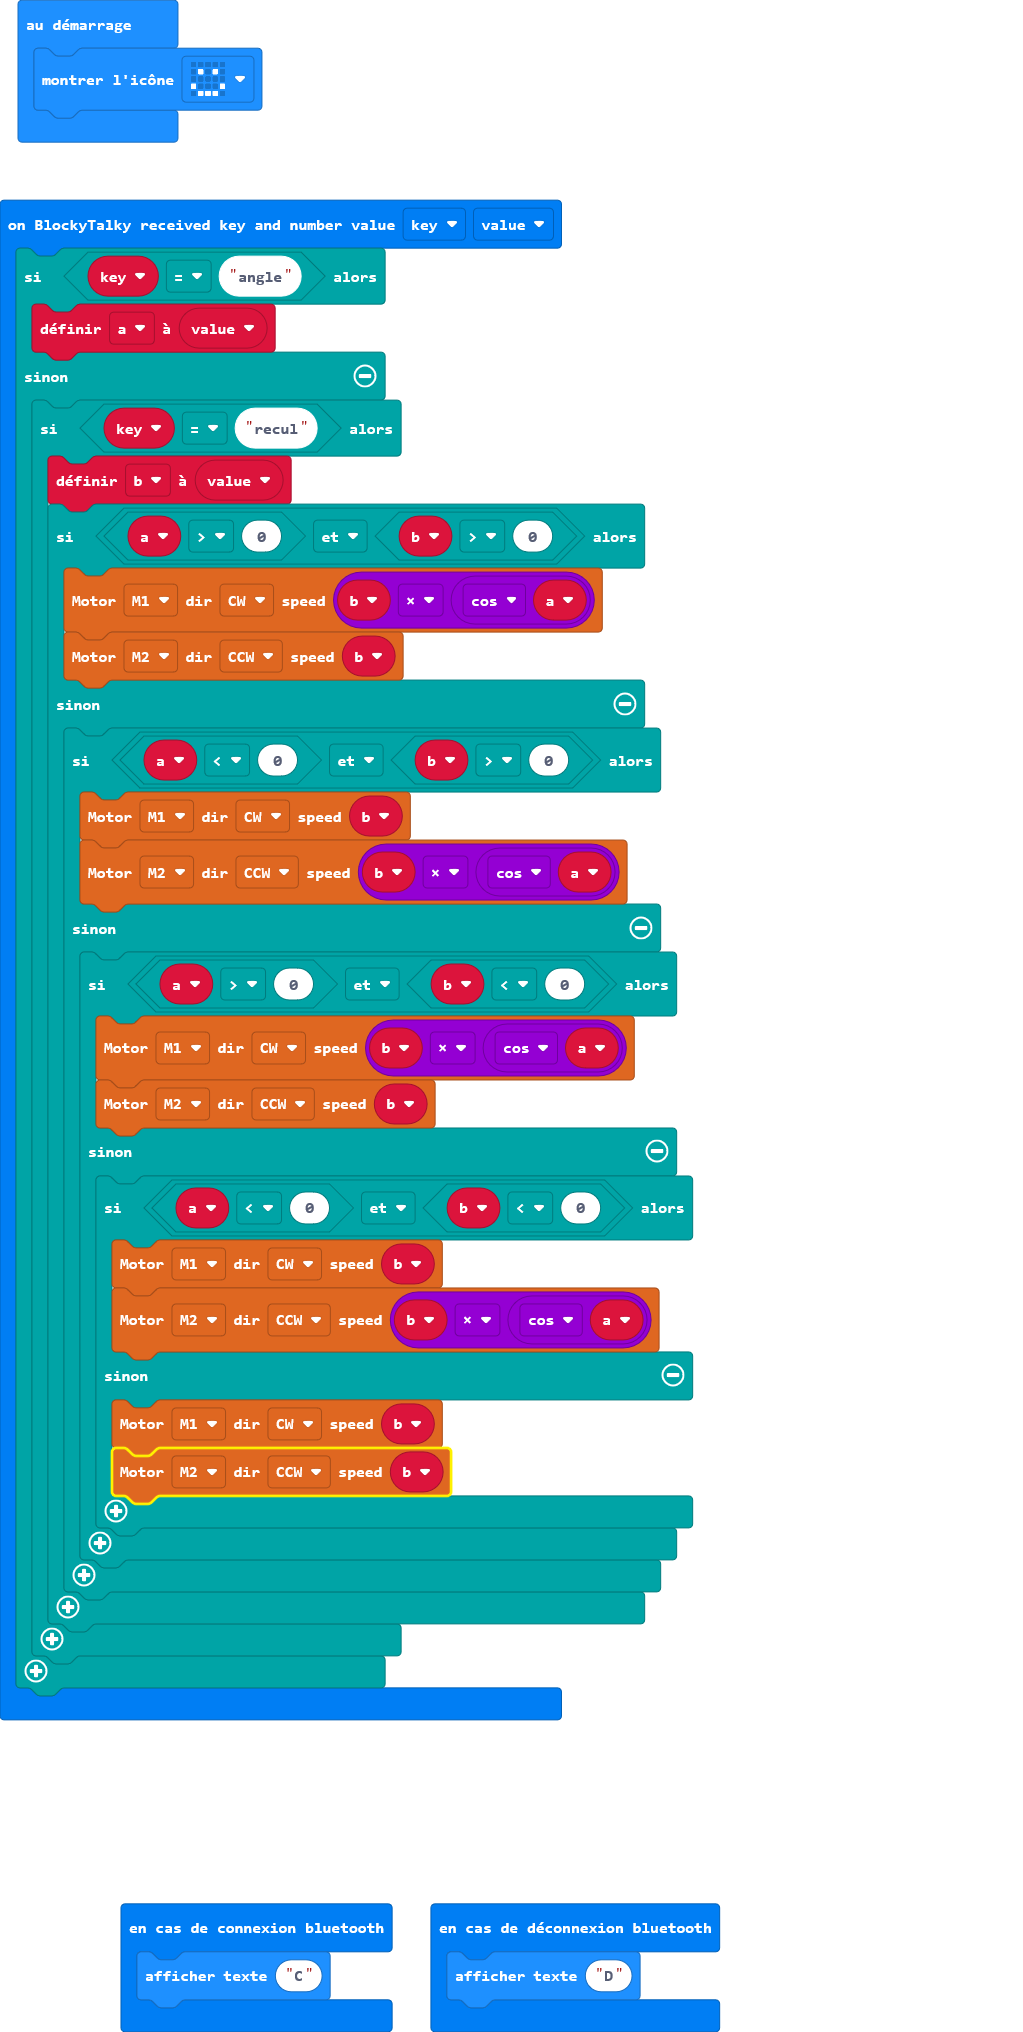
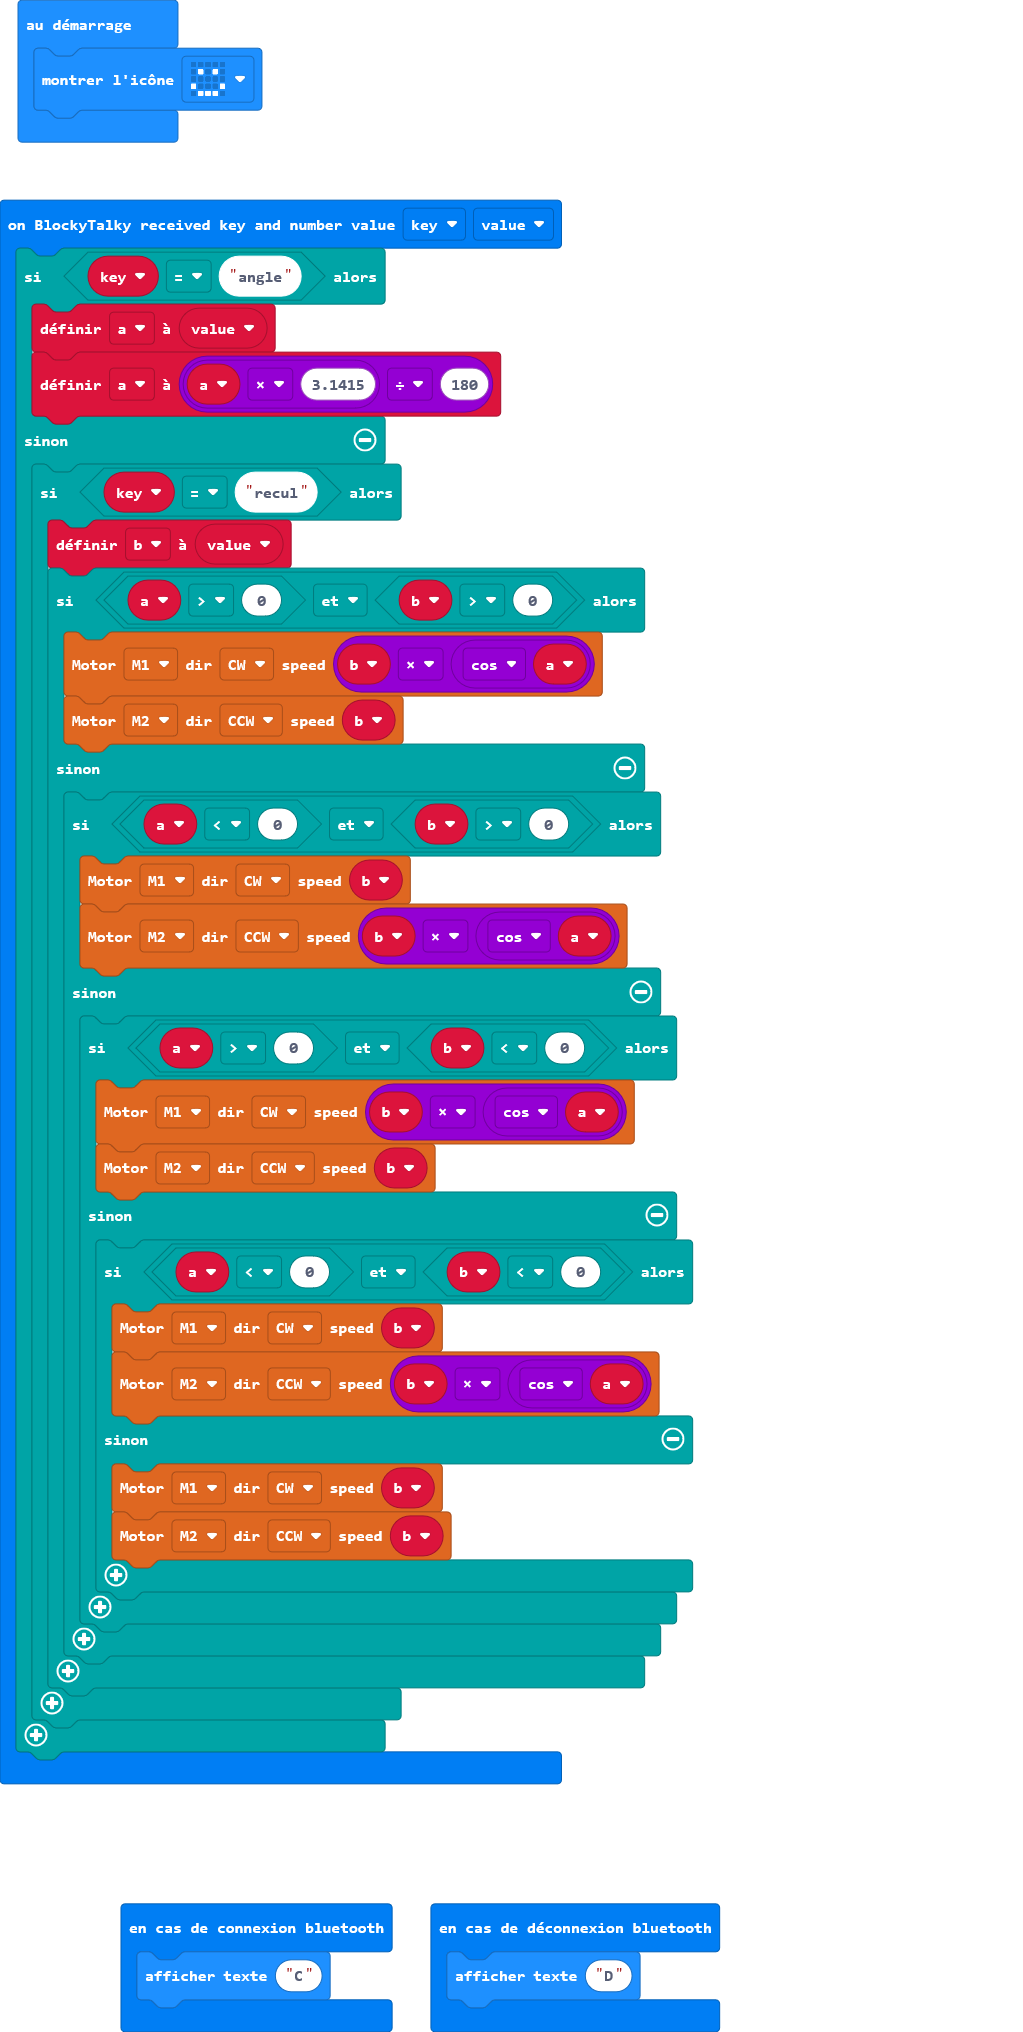
Mise à jour main.blocks, main.ts

Changed region(s): [[0.0, 0.155, 0.697, 0.8991]]

diff --git a/main.ts b/main.ts
@@ -1,6 +1,7 @@
 blockytalky.onReceivedNumber(function (key, value) {
     if (key == "angle") {
         a = value
+        a = a * 3.1415 / 180
     } else {
         if (key == "recul") {
             b = value
